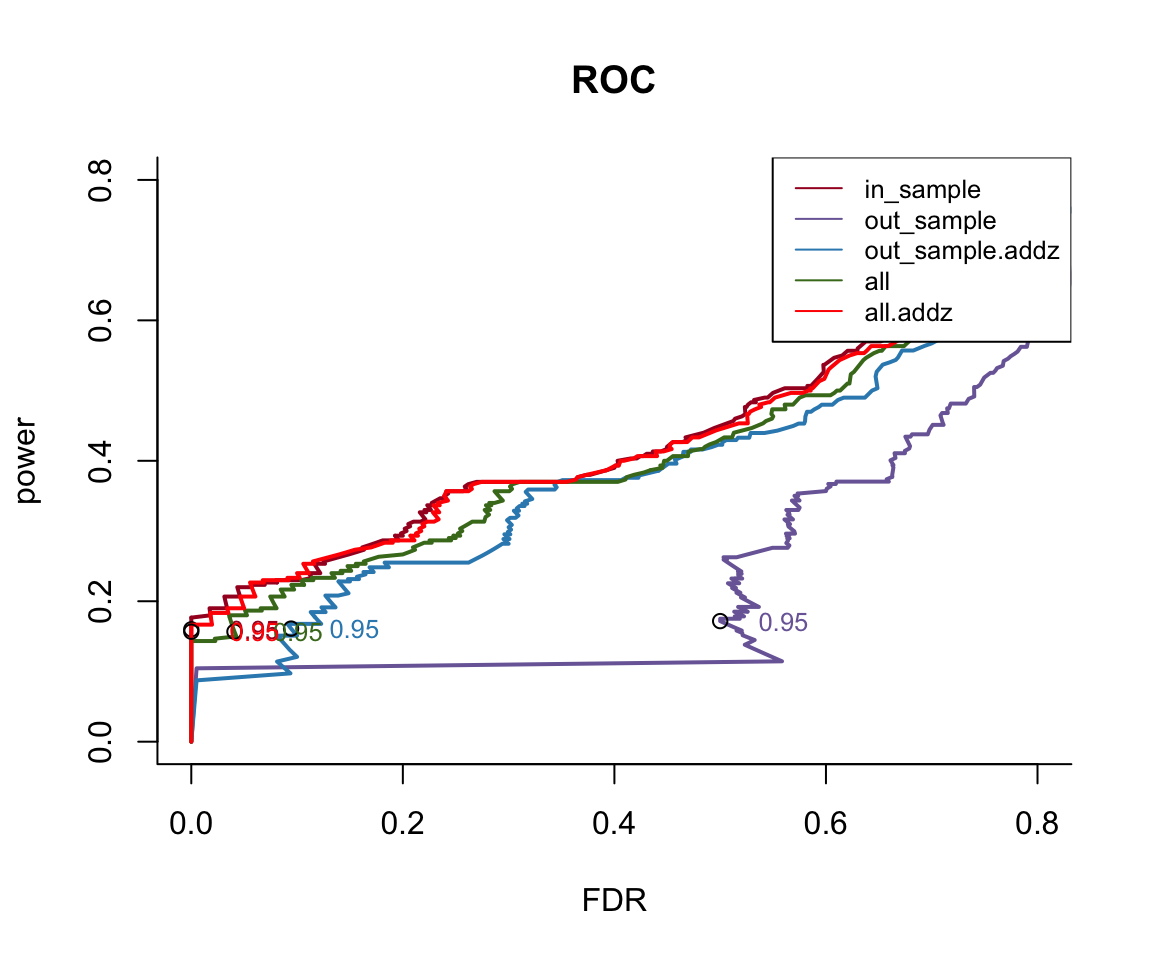
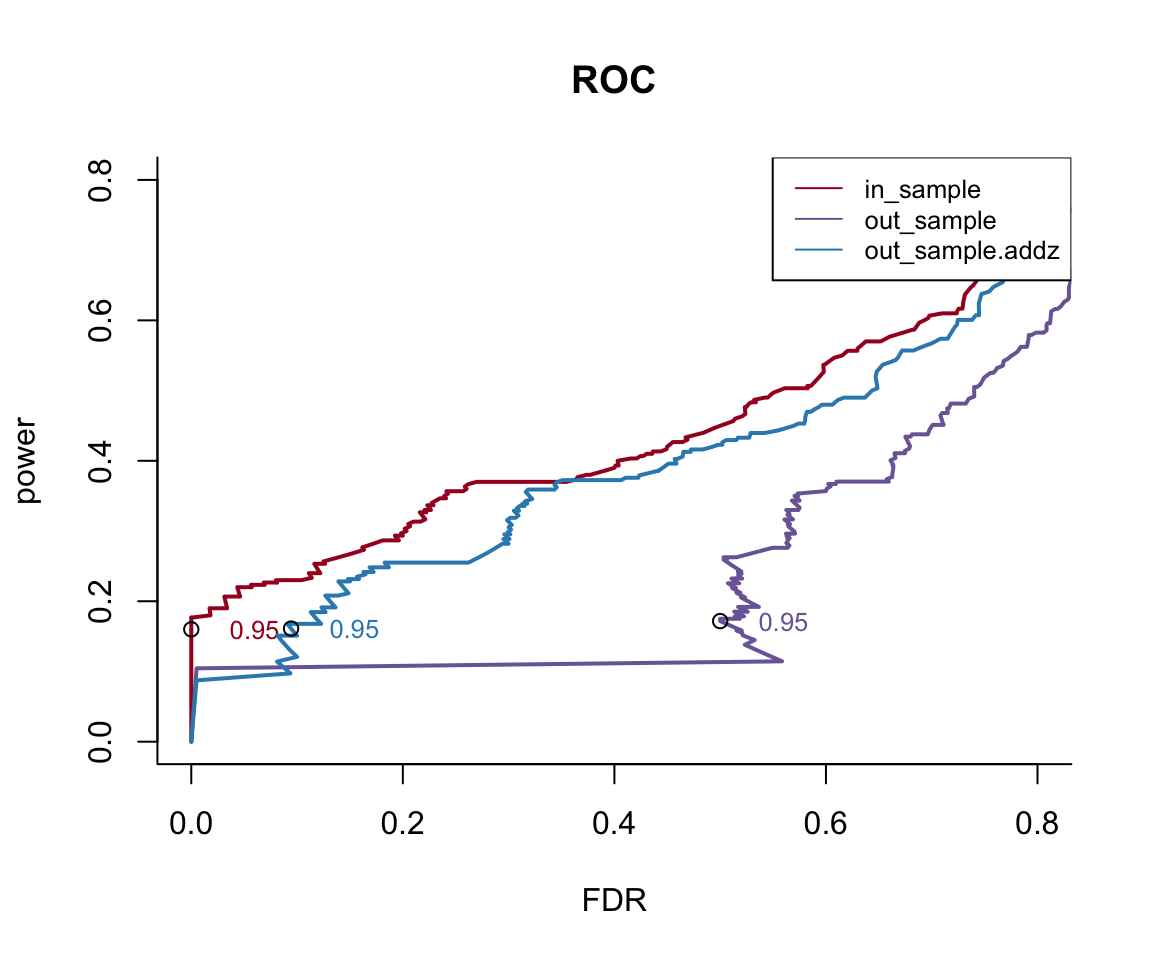
Build site.

diff --git a/docs/r_compare_add_z_susieb_ROC.html b/docs/r_compare_add_z_susieb_ROC.html
@@ -535,10 +535,10 @@ This reproducible <a href="http://rmarkdown.rstudio.com">R Markdown</a> analysis
 <div class="panel panel-default">
 <div class="panel-heading">
 <p class="panel-title">
-<a data-toggle="collapse" data-parent="#workflowr-checks" href="#strongRepositoryversionstrongahrefhttpsgithubcomzouyuxindscsusieztreec5d67d7779accc99d5fb6cd23ff49df3de0f1a58targetblankc5d67d7a"> <span class="glyphicon glyphicon-ok text-success" aria-hidden="true"></span> <strong>Repository version:</strong> <a href="https://github.com/zouyuxin/dsc-susie-z/tree/c5d67d7779accc99d5fb6cd23ff49df3de0f1a58" target="_blank">c5d67d7</a> </a>
+<a data-toggle="collapse" data-parent="#workflowr-checks" href="#strongRepositoryversionstrongahrefhttpsgithubcomzouyuxindscsusieztreedc45fa97439d13216c2b5b2e356ed64c7986b25etargetblankdc45fa9a"> <span class="glyphicon glyphicon-ok text-success" aria-hidden="true"></span> <strong>Repository version:</strong> <a href="https://github.com/zouyuxin/dsc-susie-z/tree/dc45fa97439d13216c2b5b2e356ed64c7986b25e" target="_blank">dc45fa9</a> </a>
 </p>
 </div>
[2 lines of base64/hex data omitted]
 <div class="panel-body">
 <p>
 Great! You are using Git for version control. Tracking code development and connecting the code version to the results is critical for reproducibility. The version displayed above was the version of the Git repository at the time these results were generated. <br><br> Note that you need to be careful to ensure that all relevant files for the analysis have been committed to Git prior to generating the results (you can use <code>wflow_publish</code> or <code>wflow_git_commit</code>). workflowr only checks the R Markdown file, but you know if there are other scripts or data files that it depends on. Below is the status of the Git repository when the results were generated:
@@ -645,6 +645,40 @@ Message
 </tr>
 </thead>
 <tbody>
+<tr>
+<td>
+Rmd
+</td>
+<td>
+<a href="https://github.com/zouyuxin/dsc-susie-z/blob/dc45fa97439d13216c2b5b2e356ed64c7986b25e/analysis/r_compare_add_z_susieb_ROC.Rmd" target="_blank">dc45fa9</a>
+</td>
+<td>
+zouyuxin
+</td>
+<td>
+2019-04-30
+</td>
+<td>
+wflow_publish(“analysis/r_compare_add_z_susieb_ROC.Rmd”)
+</td>
+</tr>
+<tr>
+<td>
+html
+</td>
+<td>
+<a href="https://rawcdn.githack.com/zouyuxin/dsc-susie-z/3afdc7705606b84e8077e11d47e31683f51dd5ca/docs/r_compare_add_z_susieb_ROC.html" target="_blank">3afdc77</a>
+</td>
+<td>
+zouyuxin
+</td>
+<td>
+2019-04-30
+</td>
+<td>
+Build site.
+</td>
+</tr>
 <tr>
 <td>
 Rmd
@@ -824,7 +858,7 @@ for(Rtype in names(pip_cali)){
 }</code></pre>
 <div id="calibrated-pip" class="section level3">
 <h3>Calibrated PIP</h3>
-<p><img src="figure/r_compare_add_z_susieb_ROC.Rmd/unnamed-chunk-6-1.png" width="960" style="display: block; margin: auto;" /></p>
+<p><img src="figure/r_compare_add_z_susieb_ROC.Rmd/unnamed-chunk-6-1.png" width="1440" style="display: block; margin: auto;" /></p>
 <p>
 <button type="button" class="btn btn-default btn-xs btn-workflowr btn-workflowr-fig" data-toggle="collapse" data-target="#fig-unnamed-chunk-6-1">
 Past versions of unnamed-chunk-6-1.png
@@ -847,6 +881,17 @@ Date
 </tr>
 </thead>
 <tbody>
+<tr>
+<td>
+<a href="https://github.com/zouyuxin/dsc-susie-z/blob/3afdc7705606b84e8077e11d47e31683f51dd5ca/docs/figure/r_compare_add_z_susieb_ROC.Rmd/unnamed-chunk-6-1.png" target="_blank">3afdc77</a>
+</td>
+<td>
+zouyuxin
+</td>
+<td>
+2019-04-30
+</td>
+</tr>
 <tr>
 <td>
 <a href="https://github.com/zouyuxin/dsc-susie-z/blob/ee47894ee3de9942b90a5959a9f8c87c9faba4a0/docs/figure/r_compare_add_z_susieb_ROC.Rmd/unnamed-chunk-6-1.png" target="_blank">ee47894</a>
@@ -971,6 +1016,17 @@ Date
 <tbody>
 <tr>
 <td>
+<a href="https://github.com/zouyuxin/dsc-susie-z/blob/3afdc7705606b84e8077e11d47e31683f51dd5ca/docs/figure/r_compare_add_z_susieb_ROC.Rmd/unnamed-chunk-9-1.png" target="_blank">3afdc77</a>
+</td>
+<td>
+zouyuxin
+</td>
+<td>
+2019-04-30
+</td>
+</tr>
+<tr>
+<td>
 <a href="https://github.com/zouyuxin/dsc-susie-z/blob/ee47894ee3de9942b90a5959a9f8c87c9faba4a0/docs/figure/r_compare_add_z_susieb_ROC.Rmd/unnamed-chunk-9-1.png" target="_blank">ee47894</a>
 </td>
 <td>
@@ -1015,11 +1071,12 @@ for(method in names(dat)){
     dat[[method]] = rbind(dat[[method]], datj)
   }
   colnames(dat[[method]]) = c(&#39;pip&#39;, &#39;truth&#39;)
-}</code></pre>
+}
+dat = dat[-c(4,5)]</code></pre>
 <pre class="r"><code>bin_size = 20
 bins = cbind(seq(1:bin_size)/bin_size-1/bin_size, seq(1:bin_size)/bin_size)
 
-pip_cali = list(&#39;in_sample&#39;=matrix(NA, nrow(bins), 3), &#39;out_sample&#39;=matrix(NA, nrow(bins), 3), &#39;out_sample.addz&#39;=matrix(NA, nrow(bins), 3), &#39;all&#39;=matrix(NA, nrow(bins), 3), &#39;all.addz&#39;=matrix(NA, nrow(bins), 3))
+pip_cali = list(&#39;in_sample&#39;=matrix(NA, nrow(bins), 3), &#39;out_sample&#39;=matrix(NA, nrow(bins), 3), &#39;out_sample.addz&#39;=matrix(NA, nrow(bins), 3)) #, &#39;all&#39;=matrix(NA, nrow(bins), 3), &#39;all.addz&#39;=matrix(NA, nrow(bins), 3))
 for(Rtype in names(pip_cali)){
   for (i in 1:nrow(bins)) {
     data_in_bin = dat[[Rtype]][which(dat[[Rtype]][,1] &gt; bins[i,1] &amp; dat[[Rtype]][,1] &lt; bins[i,2]),, drop=FALSE]
@@ -1043,8 +1100,8 @@ for(Rtype in names(pip_cali)){
   colnames(pip_cali[[Rtype]]) = c(&quot;mean_pip&quot;, &quot;observed_freq&quot;, &quot;se&quot;)
   g[[Rtype]] = dot_plot(pip_cali[[Rtype]]) + ggtitle(Rtype)
 }
-grid.arrange(g[[1]], g[[2]], g[[3]], g[[4]], g[[5]],nrow = 2)</code></pre>
-<p><img src="figure/r_compare_add_z_susieb_ROC.Rmd/unnamed-chunk-13-1.png" width="960" style="display: block; margin: auto;" /></p>
+grid.arrange(g[[1]], g[[2]], g[[3]],nrow = 1)</code></pre>
+<p><img src="figure/r_compare_add_z_susieb_ROC.Rmd/unnamed-chunk-13-1.png" width="1440" style="display: block; margin: auto;" /></p>
 <p>
 <button type="button" class="btn btn-default btn-xs btn-workflowr btn-workflowr-fig" data-toggle="collapse" data-target="#fig-unnamed-chunk-13-1">
 Past versions of unnamed-chunk-13-1.png
